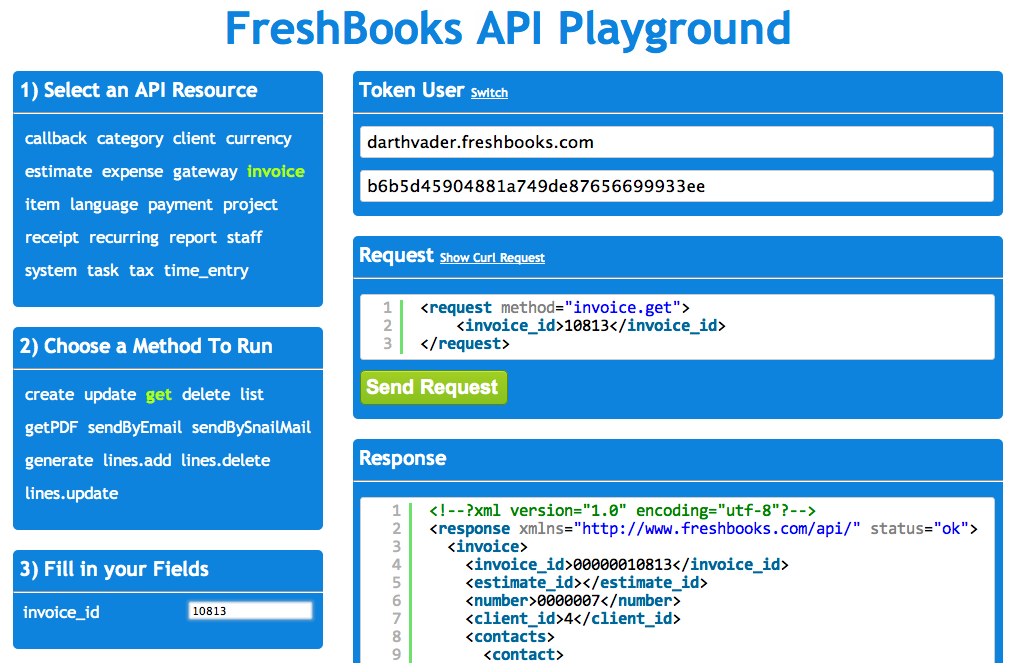
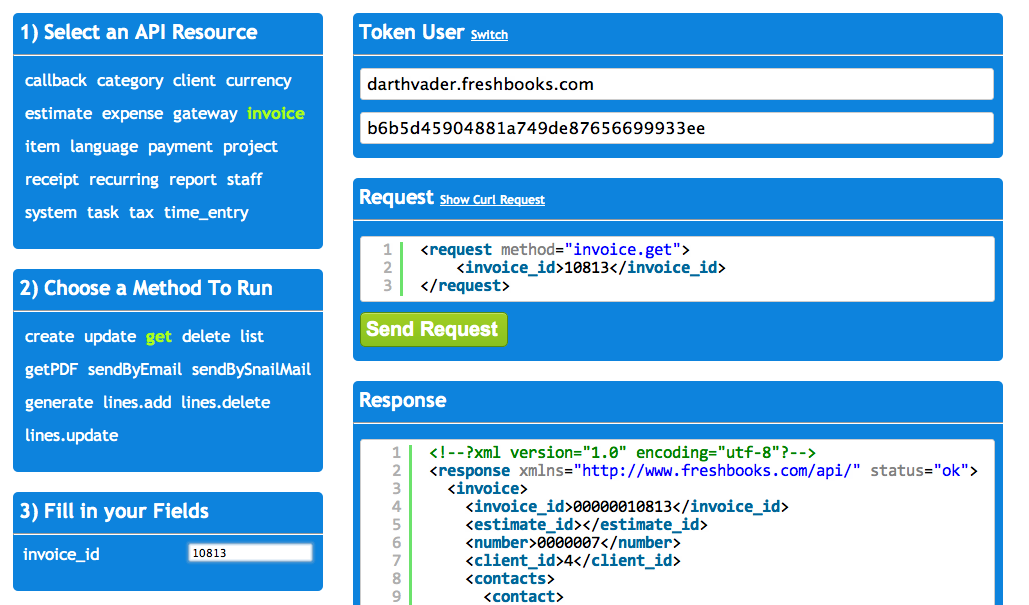
Updated the screenshot and added back the title

diff --git a/index.html b/index.html
@@ -18,6 +18,7 @@
         <header class="inner">
           <a id="forkme_banner" href="https://github.com/AntonNguyen/FreshBooks-API-Chrome-Extension">Fork Me on GitHub</a>
 
+          <h1 id="project_title">FreshBooks API Playground</h1>
           <img src="images/screenshot.png" alt="FreshBooks API Playground"/>
           <h2 id="project_tagline">Get up and running with the FreshBooks API instantly with this Google Chrome Extension!</h2>
 

diff --git a/stylesheets/stylesheet.css b/stylesheets/stylesheet.css
@@ -311,6 +311,7 @@ Full-Width Styles
   font-size: 42px;
   font-weight: 700;
   text-shadow: #111 0px 0px 10px;
+  text-align:center;
 }
 
 #project_tagline {
